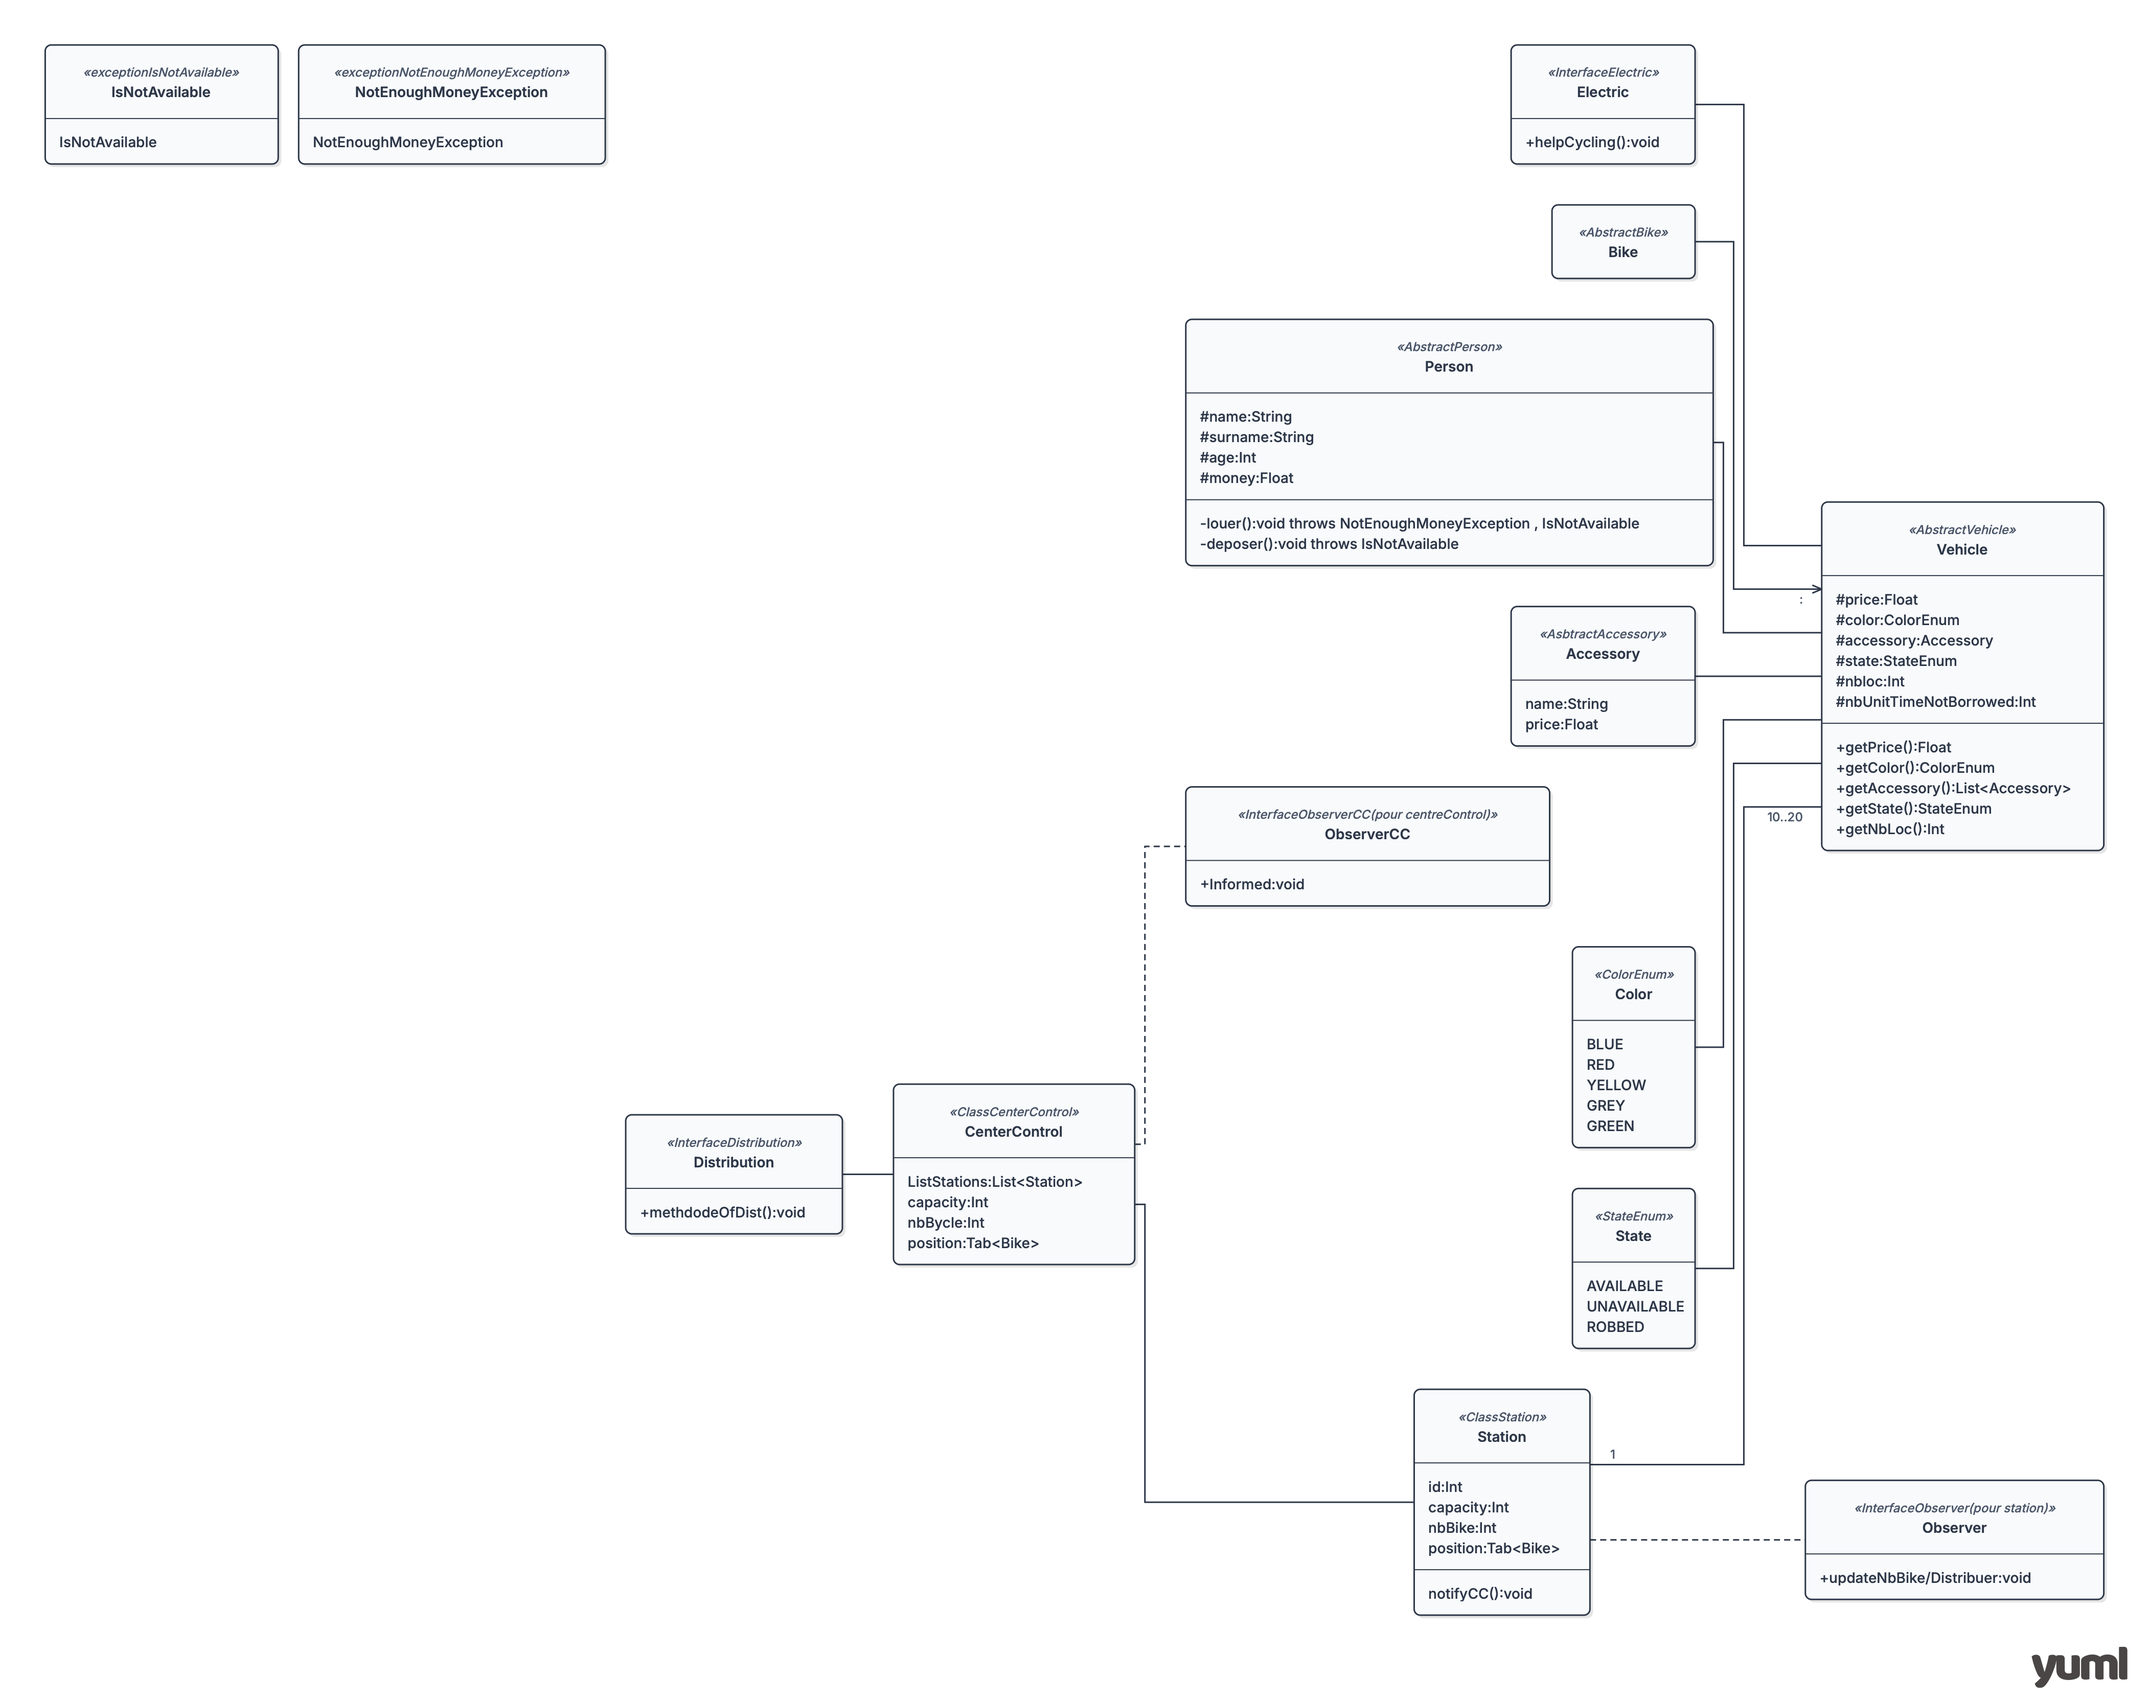
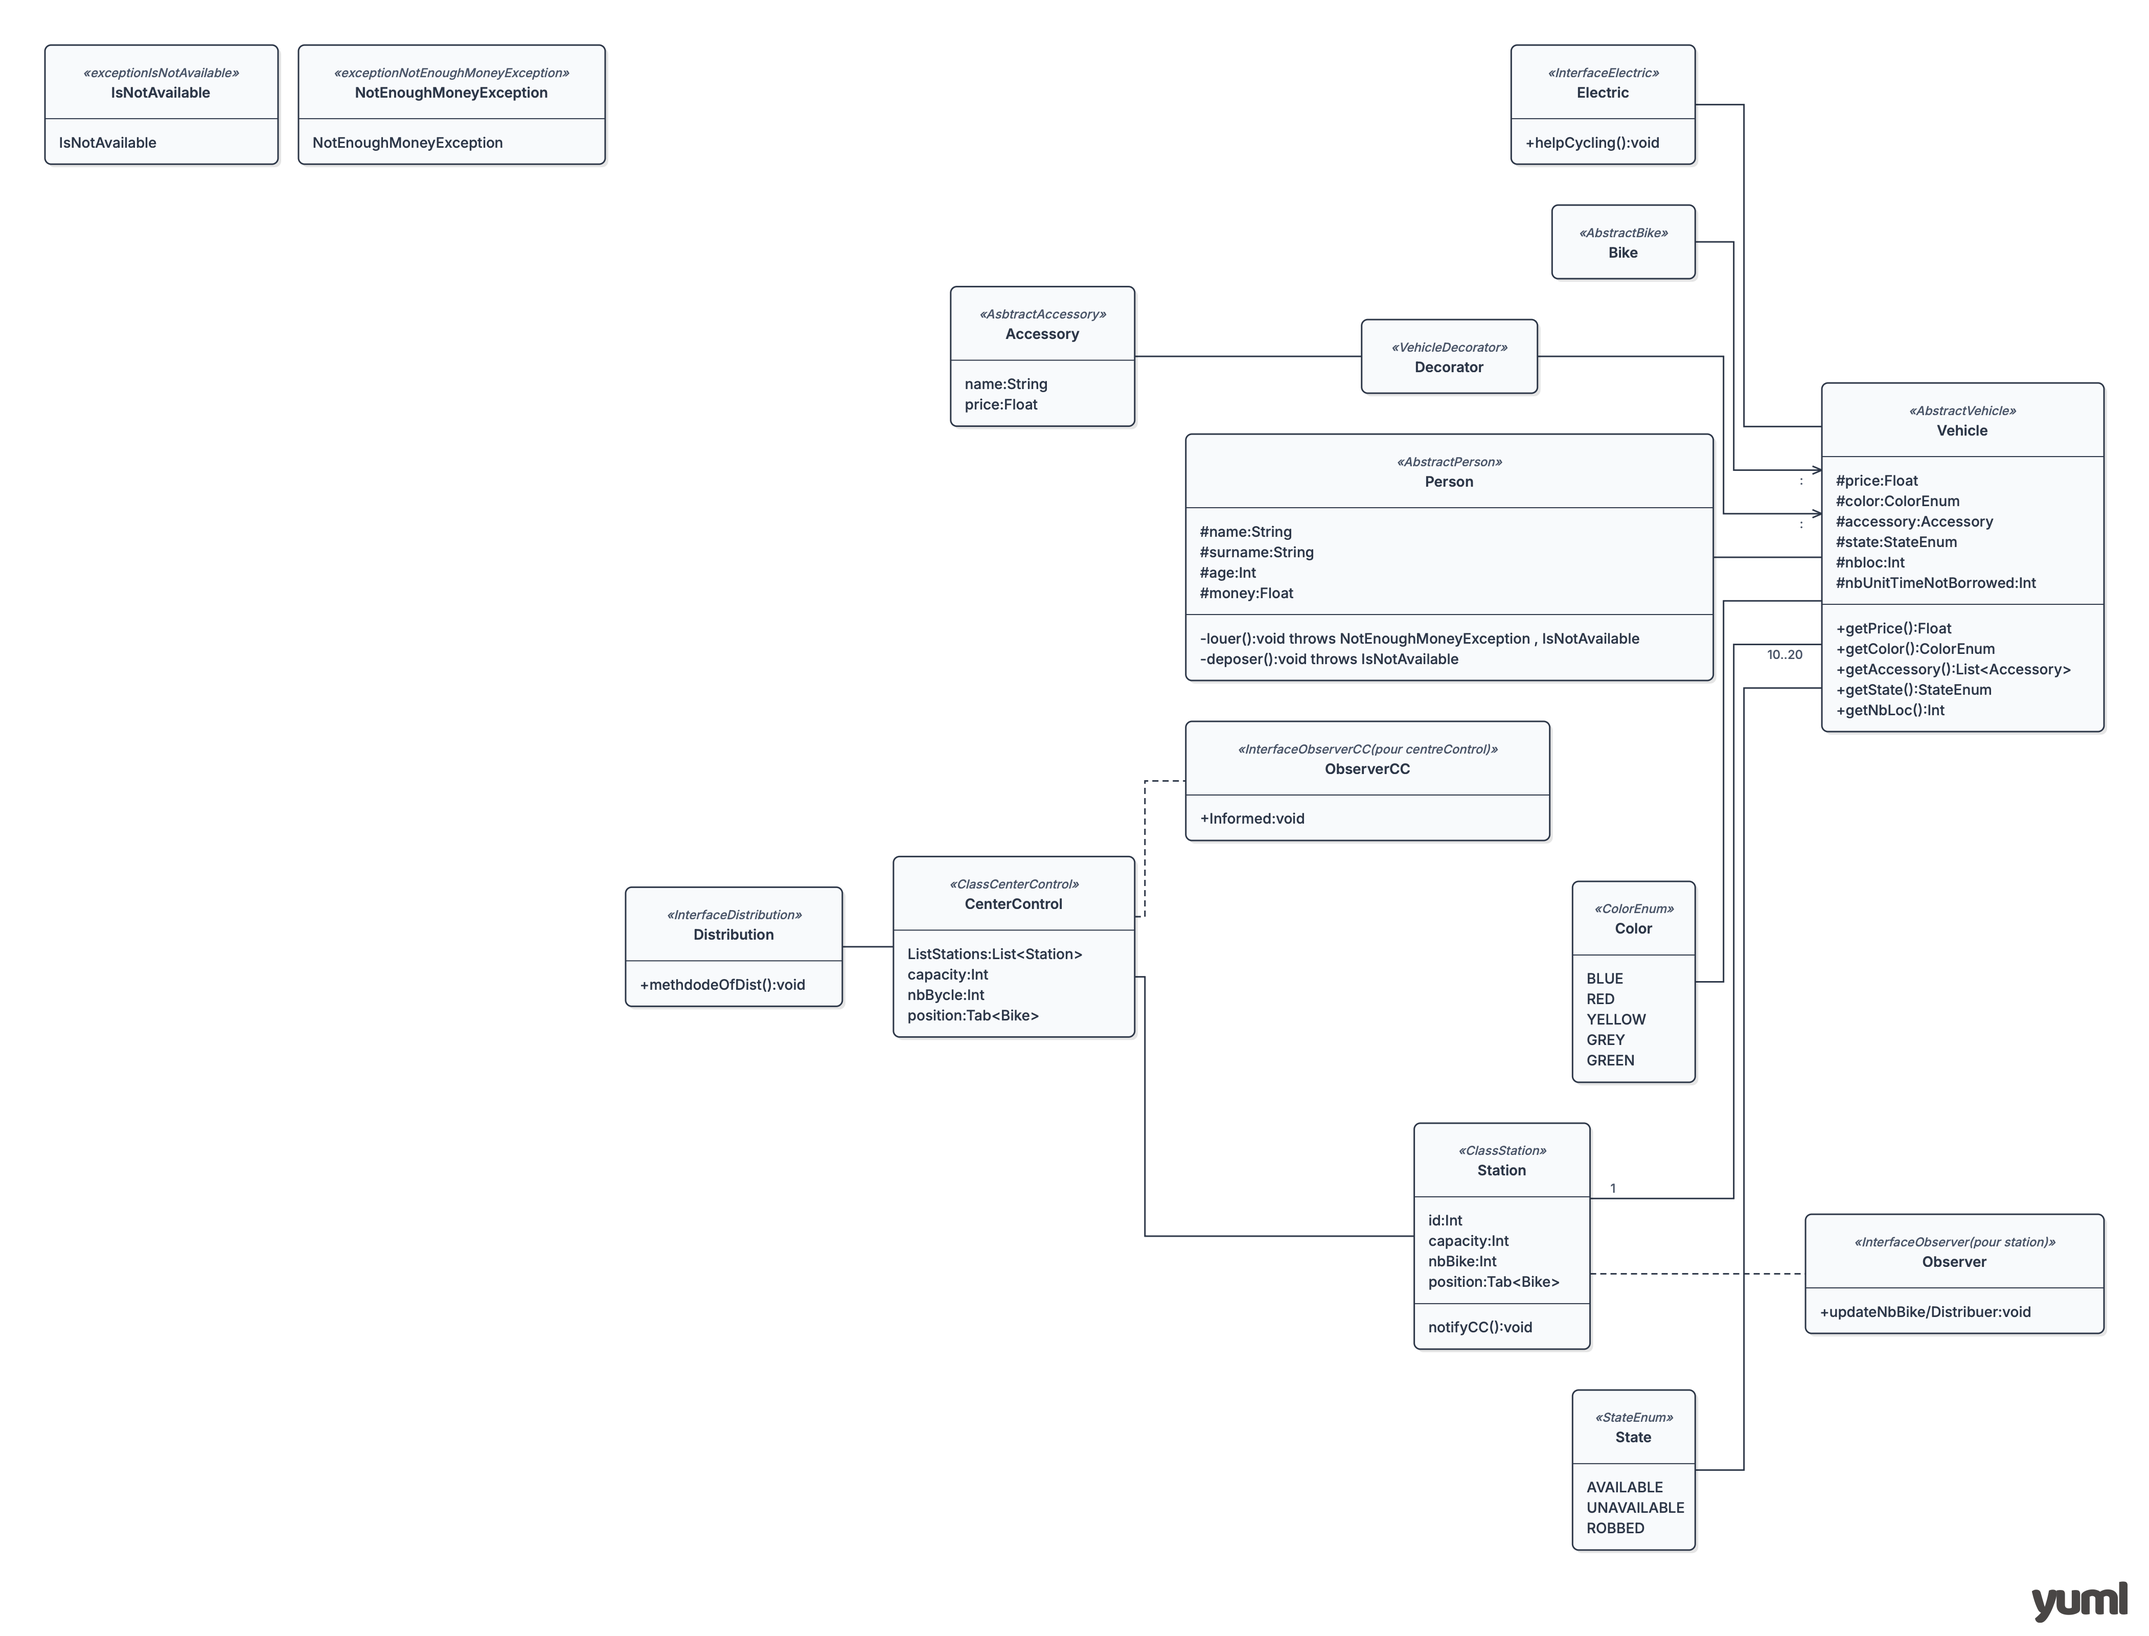
Trying to pass the first test

diff --git a/test/src/test/java/projet/MockVehicleTest.java b/test/src/test/java/projet/MockVehicleTest.java
@@ -1,0 +1,65 @@
+package projet;
+
+import org.junit.jupiter.api.Test;
+import static org.junit.jupiter.api.Assertions.assertSame;
+
+import java.util.List;
+
+public class MockVehicleTest extends Vehicle{
+
+
+    public MockVehicleTest(double price) {
+        super(price);
+    }
+
+
+    /* 
+    @Override 
+    public Float getPrice(){
+        return this.price();
+    }
+
+    
+    @Override 
+    public Color getColor(){
+        return this.color.toString();
+    }
+    */
+
+    @Test
+    @Override 
+    public void getAccessory(){
+        for(VehicleAccessoryDecorator ac : this.accessories){
+            System.out.println(ac.toString());
+        }
+    }
+    /* 
+    @Override 
+    public State getState(){
+        return this.state;
+    }
+
+    @Override 
+    public int getNbLoc(){
+        return this.nbloc;
+    }
+
+    @Override 
+    public int getNbUnitTimeNotBorrowed(){
+        return this.getnbUnitTimeNotBorrowed;
+    }
+
+    */
+
+
+   Vehicle v = new MockVehicleTest(100.0);
+
+    VehicleAccessoryDecorator vcd = new Basket(v);
+
+    v.addAccessory(vcd);
+    
+    
+
+    
+
+}

diff --git a/test/src/main/java/projet/Vehicle.java b/test/src/main/java/projet/Vehicle.java
@@ -1,0 +1,41 @@
+package projet;
+import java.util.ArrayList;
+import java.util.List;
+
+public abstract class Vehicle {
+
+    protected Float price;
+    protected List<VehicleAccessoryDecorator> accessories;
+
+
+    public Vehicle(Float price){
+        this.price = price;
+        this.accessories = new ArrayList<VehicleAccessoryDecorator>();
+    }
+
+
+    public void addAccessory(VehicleAccessoryDecorator acd){
+        this.accessories.add(acd);
+    }
+
+
+
+    public void getAccessory(){
+        for(VehicleAccessoryDecorator ac : this.accessories){
+            System.out.println(ac.toString());
+        }
+    }
+
+    public abstract Float cost();
+
+    // Getter & Setter 
+
+    public Float getPrice(){
+        return this.price;
+    }
+
+   
+
+
+    
+}

diff --git a/test/src/main/java/projet/Basket.java b/test/src/main/java/projet/Basket.java
@@ -1,0 +1,20 @@
+package projet;
+
+public class Basket extends VehicleAccessoryDecorator{
+
+    public Basket(Vehicle v){
+        super(v);
+    }
+
+    public Float cost(){
+        return this.v.cost() + 20;
+    }
+
+    @Override 
+    public String toString(){
+        return "Basket";
+    }
+
+
+    
+}

diff --git a/test/src/main/java/projet/VehicleAccessoryDecorator.java b/test/src/main/java/projet/VehicleAccessoryDecorator.java
@@ -1,0 +1,16 @@
+package projet;
+
+public abstract class VehicleAccessoryDecorator extends Vehicle{
+    
+    protected Vehicle v;
+
+    public VehicleAccessoryDecorator(Vehicle v){
+        super(v.getPrice());
+        this.v = v ;
+    }
+
+   
+    public abstract String toString();
+    
+
+}
